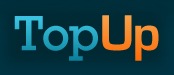
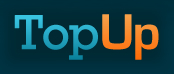
Added "beta" to the page header Added info about the GitHub repo Replaced topup.holder.nl with gettopup.com

diff --git a/public/stylesheets/common.css b/public/stylesheets/common.css
@@ -18,11 +18,11 @@
 }
 
 #page_wrapper #page_header h1 {
-  top: 29px;
+  top: 30px;
   left: 84px;
   width: 174px;
-  height: 75px;
-  background-image: url(/images/backgrounds/page_header.jpg);
+  height: 74px;
+  background-image: url(/images/backgrounds/page_header_beta.jpg);
 }
 
 #page_wrapper #page_header h2 {
@@ -112,6 +112,11 @@
   padding: 10px 13px;
 }
 
+#page_wrapper #page_content #secondary .box .info {
+	margin-bottom: 7px;
+	display: block;
+}
+
 #page_wrapper #page_content #secondary .box a.download_top_up {
   width: 211px;
   height: 45px;
@@ -137,6 +142,7 @@ h1.how_to_use             { background-image: url(/images/text/h1-how_to_use.jpg
 h1.support_or_feedback    { background-image: url(/images/text/h1-support_or_feedback.jpg);    }
 h1.under_construction     { background-image: url(/images/text/h1-under_construction.jpg);     }
 h2.get_the_latest_version { background-image: url(/images/text/h2-get_the_latest_version.jpg); }
+h2.source_at_github			  { background-image: url(/images/text/h2-source_at_github.jpg);			 }
 h2.about_me               { background-image: url(/images/text/h2-about_me.jpg);               }
 h2.links                  { background-image: url(/images/text/h2-links.jpg);                  }
 a.download_top_up         { background-image: url(/images/text/a-download_top_up.jpg);         }

diff --git a/assets/examples/external_page/index.html b/assets/examples/external_page/index.html
@@ -1,6 +1,6 @@
 <html>
   <head>
-    <script type="text/javascript" src="http://topup.holder.nl/releases/latest/top_up.js"></script>
+    <script type="text/javascript" src="http://gettopup.com/releases/latest/top_up.js"></script>
   </head>
   <body>
     <a href="/images/photo1.jpg" toptions="shaded = 1">
